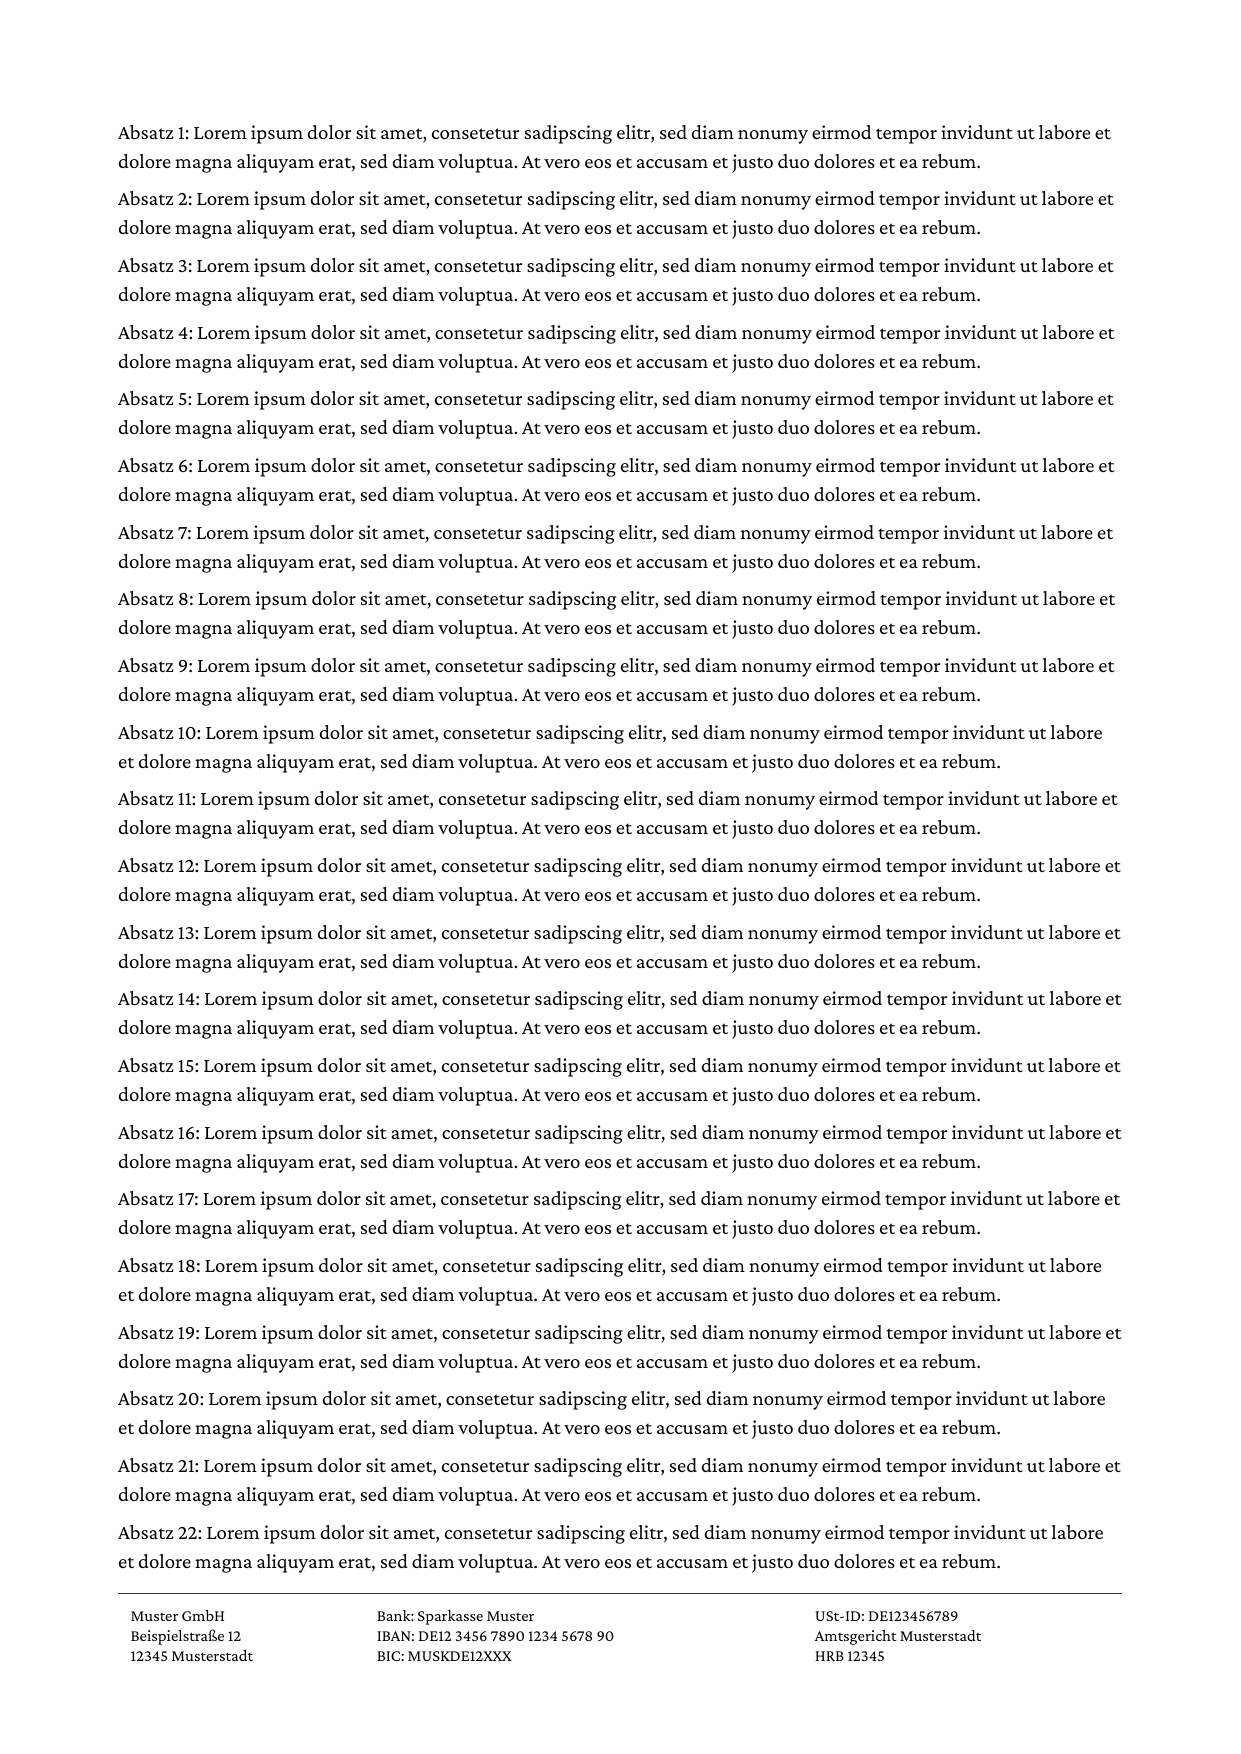
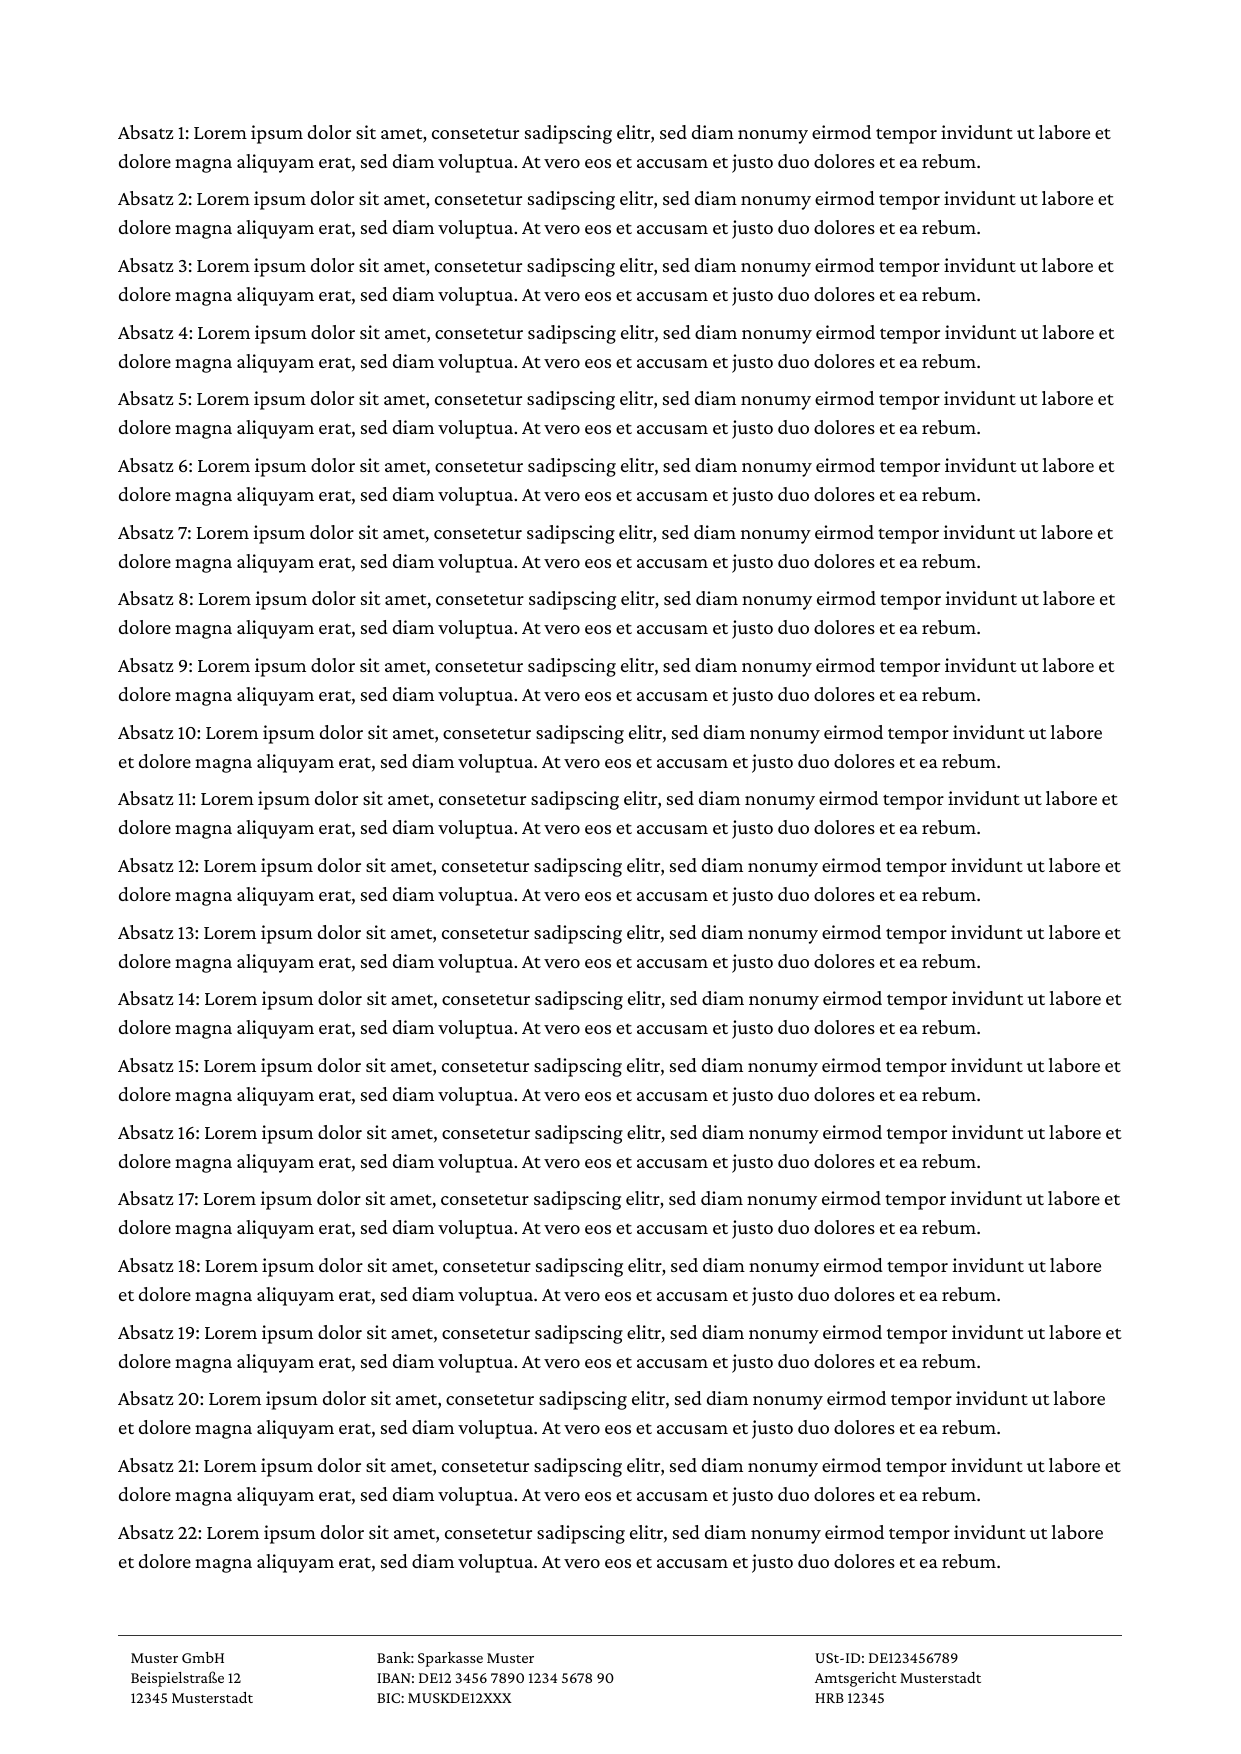
Renew the running footer, centered in its band

diff --git a/glu/html/running-footer/Readme.md b/glu/html/running-footer/Readme.md
@@ -13,7 +13,7 @@ No Go and no Lua callback needed.
 | `position: running(name)` | Removes the `<footer>` from the flow and registers it under the name `pagefooter`. It occupies no space at its source position. |
 | `@page { @bottom-center { content: element(name) } }` | Places the captured element into the bottom margin box, re-formatted at the margin box width, on every page. |
 | Rich footer content | The footer body is real HTML: a three-column table with `<br>` line breaks at `font-size: 8pt`, incl. a `border-top` rule line. The element keeps its own computed styles. |
-| Fixed position | The footer sits at the top edge of the 30&nbsp;mm bottom margin band on both pages; page 2 is half empty and the footer does not move up. |
+| Fixed position | The footer is centered in the 30&nbsp;mm bottom margin band on both pages (`vertical-align: middle`, the default of the bottom boxes); page 2 is half empty and the footer does not move up. |
 
 ## Files
 
